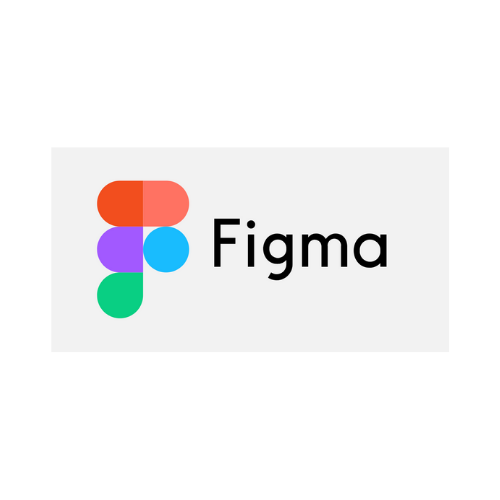
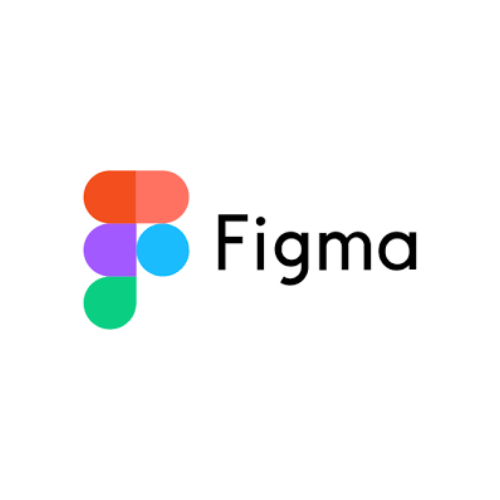
Add Skills

Changed region(s): [[0.15, 0.33, 0.39, 0.66], [0.42, 0.42, 0.84, 0.57], [0.36, 0.51, 0.39, 0.54]]

diff --git a/index.html b/index.html
@@ -90,7 +90,7 @@
         }
         .avatar img {
             width: 350px;
-            height: 120px;
+            height: 150px;
             border-radius: 50%;
             border: 3px solid black;
         }
@@ -128,6 +128,19 @@
             background-color: white;
             box-shadow: 0 -4px 0 black;
         }
+
+        @media (max-width: 768px) {
+            header {
+                height: auto;
+                padding: 1rem 0;
+            }
+            section {
+                scroll-margin-top: 10px;
+            }
+            .container {
+                padding-top: 1rem;
+            }
+        }
     </style>
     <link rel="stylesheet" href="https://cdnjs.cloudflare.com/ajax/libs/font-awesome/6.2.1/css/all.min.css">
     <script src="https://unpkg.com/@tailwindcss/browser@4"></script>
@@ -136,20 +149,20 @@
 <body class="bg-gray-100 p-0">
     <header class="text-center mb-10">
         <h1 class="text-4xl font-bold text-black mb-2">My Portfolio</h1>
-        <p class="text-lg text-gray-700 mb-3">Web Developer | Designer | Creator</p>
+        <p class="text-lg text-gray-700 mb-4">Web Developer | Designer | Creator</p>
         <nav class="mb-3">
             <ul class="navlinks flex justify-center space-x-6">
                 <li><a href="#about">About Me</a></li>
                 <li><a href="#skills">Skills</a></li>
-                <li><a href="#portofolio">Portofolio</a></li>
+                <li><a href="#portofolio">Projects</a></li>
                 <li><a href="#certificates">Certificates</a></li>
                 <li><a href="#contact">Contact</a></li>
             </ul>
         </nav>
     </header>
     
-    <div class="p-20 mt-30">
-    <section id="about" class="container max-w-4xl mx-auto bg-white p-8 mt-6 rounded-lg neobrutalism flex items-center space-x-6">
+    <div class="p-10 mt-30">
+    <section id="about" class="container max-w-5x1 mx-auto bg-white p-8 mt-6 rounded-lg neobrutalism flex items-center space-x-6">
         <div class="avatar bg-pale-red">
             <img src="images/main_photo.jpeg" alt="Avatar" />
         </div>
@@ -165,23 +178,38 @@
         </div>
     </section>
 
-    <section id="skills" class="container max-w-4xl mx-auto bg-white p-8 mt-6 rounded-lg neobrutalism">
+    <section id="skills" class="container max-w-7xl mx-auto bg-white p-8 mt-6 rounded-lg neobrutalism">
         <h2 class="text-2xl font-bold">Skills</h2>
-        <div class="grid grid-cols-3 gap-4 mt-4">
+        <div class="grid grid-cols-4 gap-4 mt-4">
             <div class="card">
-                <a href="https://example.com">
-                    <div class="card-thumbnail">
-                        <img src="images/Ubuntu.png" loading="lazy" alt="Explore NeoBrutalismCSS" />
-                    </div>
-                    <div class="card-content">
-                        <p><strong>Explore NeoBrutalismCSS: A Revolutionary library</strong></p>
-                        <p>Unveil the future of NeoBrutalism with our groundbreaking approach that will transform your life.</p>
-                    </div>
-                </a>
+                <div class="card-thumbnail">
+                    <img src="images/cpp.png" loading="lazy" alt="Explore NeoBrutalismCSS" />
+                </div>
+                <div class="card-content">
+                    <p><strong>C++: Basic</strong></p>
+                    <p>- Fundamental knowledge of C++ programming language</p>
+                </div>
             </div>
             <div class="card">
-                <h3>Project 2 - Portfolio website</h3>
-                <p>A personal portfolio showcasing my work.</p>
+                <div class="card-thumbnail">
+                    <img src="images/linux.png" loading="lazy" alt="Explore NeoBrutalismCSS" />
+                </div>
+                <div class="card-content">
+                    <p><strong>Linux: Basic</strong></p>
+                    <p>- Fundamental knowledge of Linux operating system</p>
+                    <p>- Experience with command line interface</p>
+                    <p>- Remask of Linux Ubuntu</p>
+                </div>
+            </div>
+            <div class="card">
+                <div class="card-thumbnail">
+                    <img src="images/figma.png" loading="lazy" alt="Explore NeoBrutalismCSS" />
+                </div>
+                <div class="card-content">
+                    <p><strong>Figma: Basic</strong></p>
+                    <p>- Fundamental knowledge of Figma software</p>
+                    <p>- Experience with creating user interfaces and prototypes</p>
+                </div>
             </div>
             <div class="card">
                 <h3>Project 2 - Portfolio website</h3>
@@ -190,9 +218,9 @@
         </div>
     </section>
     
-    <section id="portofolio" class="container max-w-4xl mx-auto bg-white p-8 mt-6 rounded-lg neobrutalism">
+    <section id="portofolio" class="container max-w-7xl mx-auto bg-white p-8 mt-6 rounded-lg neobrutalism">
         <h2 class="text-2xl font-bold">Projects</h2>
-        <div class="grid grid-cols-3 gap-4 mt-4">
+        <div class="grid grid-cols-4 gap-4 mt-4">
             <div class="card">
                 <a href="https://example.com">
                     <div class="card-thumbnail">
@@ -217,7 +245,7 @@
         </div>
     </section>
     
-    <section id="certificates" class="container max-w-4xl mx-auto bg-white p-8 mt-6 rounded-lg neobrutalism">
+    <section id="certificates" class="container max-w-7xl mx-auto bg-white p-8 mt-6 rounded-lg neobrutalism">
         <h2 class="text-2xl font-bold">Certificates</h2>
         <div class="grid grid-cols-2 gap-4 mt-4">
             <div class="card">
@@ -240,7 +268,7 @@
         </div>
     </section>
     
-    <section id="contact" class="container max-w-4xl mx-auto bg-white p-8 mt-6 rounded-lg neobrutalism">
+    <section id="contact" class="container max-w-7xl mx-auto bg-white p-8 mt-6 rounded-lg neobrutalism">
         <h2 class="text-2xl font-bold mt-0">Contact</h2>
         <form action="mailto:nannraamdh@gmail.com" method="post" enctype="text/plain" class="mt-2">
             <label class="block text-gray-700">Name:</label>
